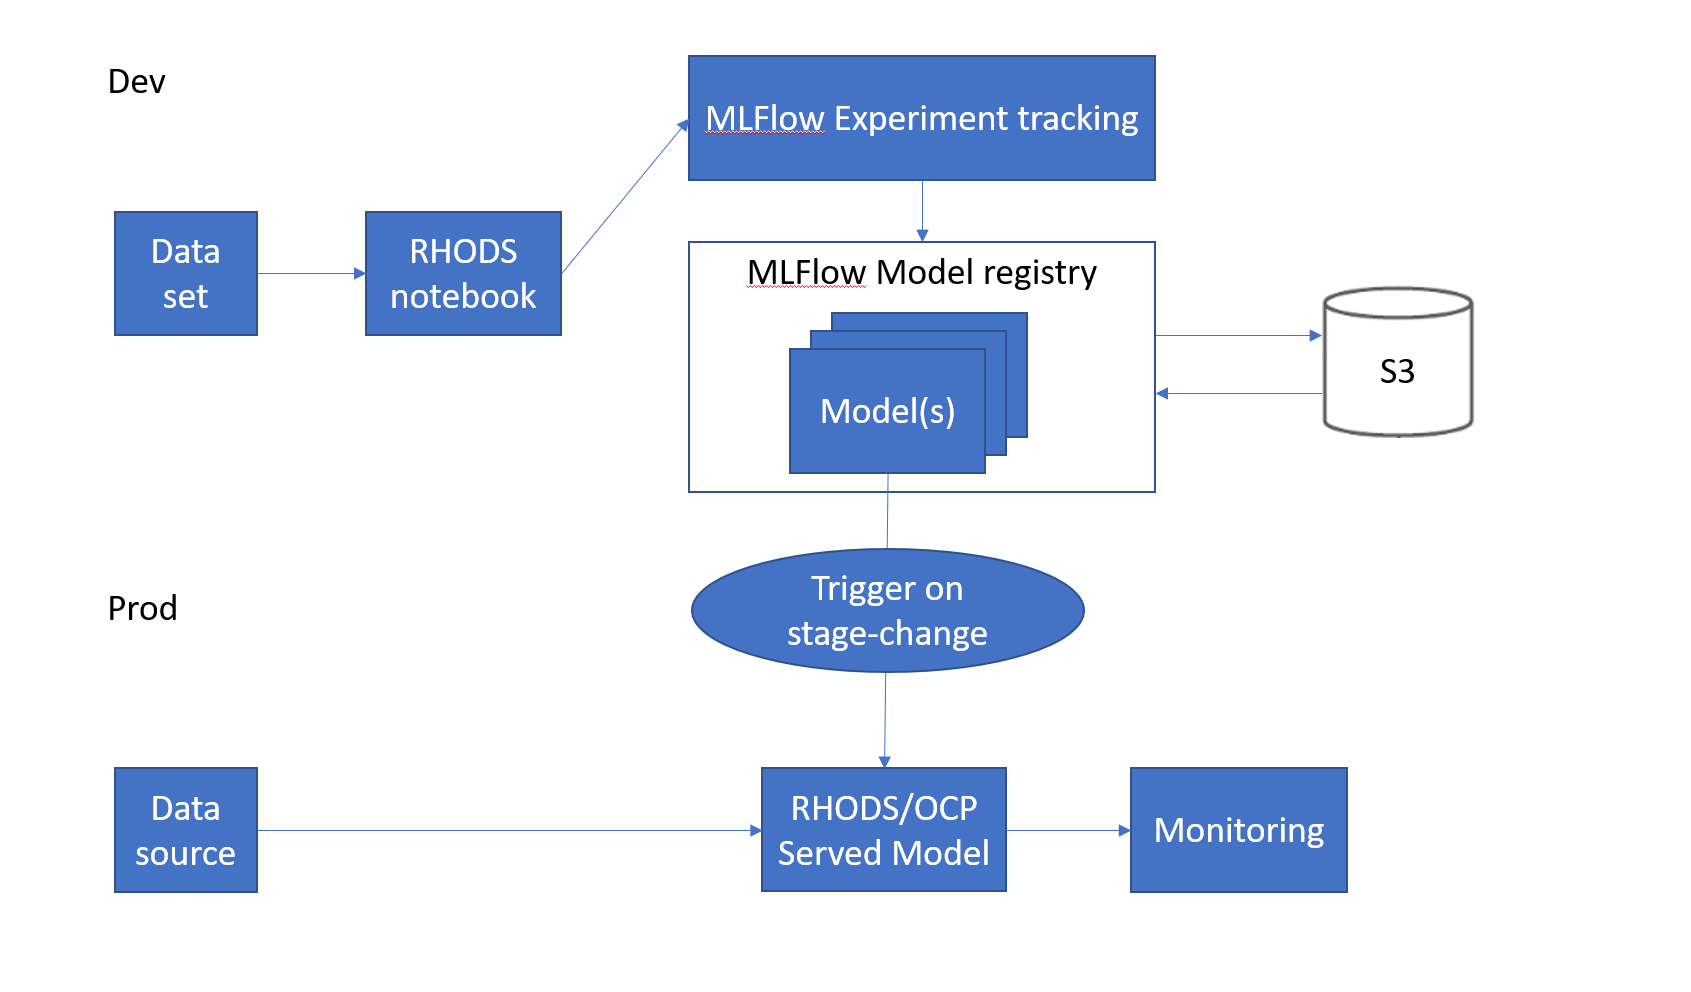
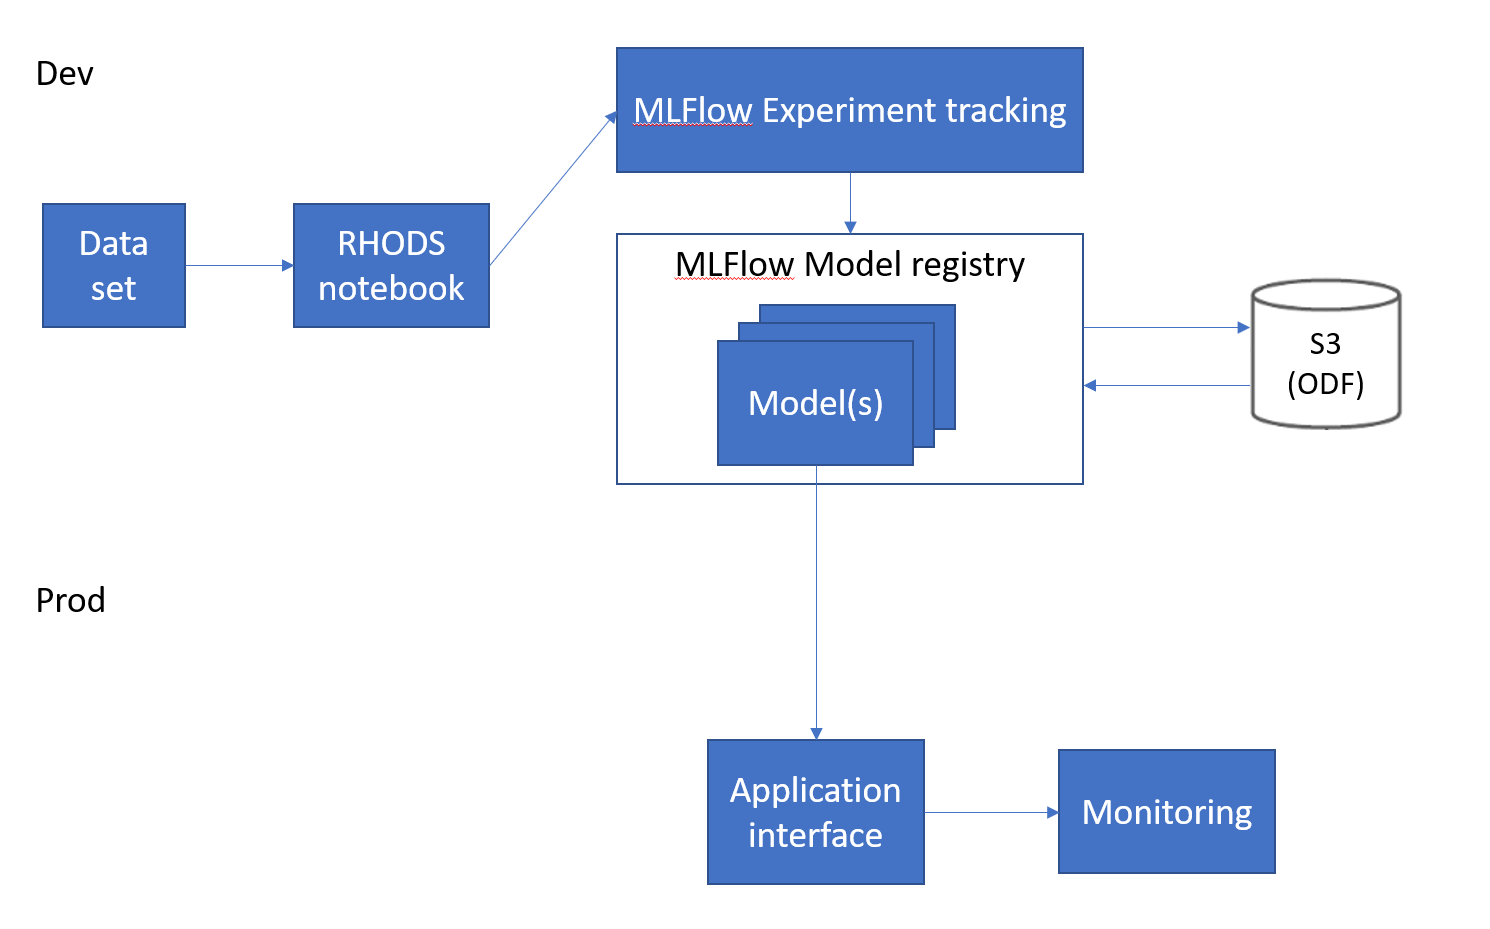
Updated README

diff --git a/README.md b/README.md
@@ -1,43 +1,133 @@
-# Credit Fraud Detection Demo using MLFlow and RHODS
-[Source](https://github.com/red-hat-data-services/credit-fraud-detection-demo)
+# Credit Card Fraud Detection Demo using MLFlow and RHODS
+[GitHub Source](https://github.com/red-hat-data-services/credit-fraud-detection-demo)
 
-## Pre-requisites:
+# Pre-requisites:
 - Have [RHODS](/getting_started_rhods) running in a cluster
 - Have [MLFlow](/tools_and_applications_mlflow) running in a cluster
-- 
 
-## Architecture
-This demo uses RHODS and MLFlow to build and end-to-end MLOps platform where we can: 
+# Demo Description & Architecture
+The goal of this demo is to demonstrate how RHODS and MLFlow can be used together to build and end-to-end MLOps platform where we can: 
 
 - Build and train models in RHODS
-- Track and store those models in MLFlow
-- Automatically deploy models to production (using RHODS serving) when the MLFlow model stage changes
-- And observe how the model performs in production.
+- Track and store those models with MLFlow
+- Deploy a model application in OpenShift that predicts with a sepcific model from MLFlow
+- Observe how the model performs in production
 
 The architecture looks like this:
 ![Diagram](img/Diagram.PNG)
 
-For S3 we use ODF (OpenShift Data Foundation) according to the MLFlow guide, but it can be replaced with another storage.  
+For S3 we use ODF (OpenShift Data Foundation) according to the [MLFlow guide](/tools_and_applications_mlflow), but it can be replaced with another storage.  
 The monitoring component uses Prometheus and Grafana.
 
-## Demo
+The model we will build is a Credit Card Fraud Detection model, which predicts if a credit card usage is fraudulent or not depending on a few paramemters such as: distance from home and last transaction, purchase price compared to median, if it's from a retailer that already has been purchased from before, if the PIN number is used and if it's an online order or not.
+
+
+# Demo
+
+## 1.1: MLFlow Route through visual interface
 Start by finding your route to MLFlow. You will need it to send any data to MLFlow.
 
-- Go to the OCP Console as a Developer
+- Go to the OpenShift Console as a Developer
 - Select your mlflow project 
 - Press Topology 
 - Press the mlflow-server circle 
+    - While you are at it, you can also press the little "Open URL" button in the top right corner of the circle to open up the MLFlow UI in a new tab - we will need it later.
 - Go to the Resources tab 
 - Press mlflow-server under Services 
-- Look at the Hostname and mlflow-server Port.
+- Look at the Hostname and mlflow-server Port.  
+NOTE: This route and port only works internally in the cluster.
 ![Find mlflow-server-service](img/mlflow-server-service.png)
 ![Find hostname and port](img/hostname-and-port.png)
 
-Then we will create a new Jupyter from RHODS, this is where we will build and train our model.
-![Launch Jupyter](img/Launch_Jupyter.png)
+## 1.2: MLFlow Route through oc
+Alternatively, you can use the OC command to get the route through: `oc get route mlflow | grep mlflow`
 
-Make sure to add the environment variable `MLFLOW_ROUTE=http://<route-to-mlflow>`. In this case it will be `MLFLOW_ROUTE=http://mlflow-server.mlflow.svc.cluster.local:8080`.  
-![Set environment variable](img/Set_env.png)
+## 2: Create a RHODS workbench
+Open up RHODS and create a new Data Science project (see image), this is where we will build and train our model. This will also create a namespace in OpenShift which is where we will be running our appliaction after the model is done.  
+I'm calling my project 'Credit Fraud', feel free to call yours something different but be aware that some things further down in the demo may change.
+![Create Data Science Project](img/Create_data_science_project.png)
 
-When inside Jupyter, pull down this repo from GitHub: [https://github.com/red-hat-data-services/credit-fraud-detection-demo](https://github.com/red-hat-data-services/credit-fraud-detection-demo)  
-It will contain everything you need to train and later run your model.
+After the project has been created, create a workbench where we can run Jupyter.  
+There are a few important settings here that we need to set:
+
+- **Name:** I simply call it "Credit Fraud Model", but feel free to call it something else.
+- **Notebook Image:** Standard Data Science
+- **Deployment Size:** Small
+- **Environment Variable:** Add a new one that's a Config Map -> Key/value and enter `MLFLOW_ROUTE` as the key and `http://<route-to-mlflow>:<port>` as the value.  
+This is the same route and port that we found in [step one](#11-mlflow-route-through-visual-interface), in my case it is `http://mlflow-server.mlflow.svc.cluster.local:8080`.
+- **Cluster Storage:** Create new persistent storage - I call it "Credit Fraud Storage" and set size to 20GB.
+
+Press Create Workbench and wait for it to start (Status should say "Running" and you should be able to press the Open link).
+![Workbench Settings](img/Workbench_Settings.png)
+![Workbench](img/Workbench.png)
+
+Open the workbench and log in if needed.
+
+## 3: Train the model
+When inside the workbench (Jupyter), pull down this repo from GitHub: [https://github.com/red-hat-data-services/credit-fraud-detection-demo](https://github.com/red-hat-data-services/credit-fraud-detection-demo).   
+It contains:
+
+- A notebook (model.ipynb) inside the `model` folder with a Deep Neural Network model we will train.
+- Data for that model.
+- An application (model_application.py) inside the `application` folder which will fetch the trained model from MLFlow and run a prediction on it whenever it gets any user input.
+![Jupyter](img/Jupyter.png)
+
+Take a look inside the folders and scripts if you are interested.  
+Some things to note is how we set up tracking and logging with MLFlow in `model.ipynb` to make sure that the experiment and the model is captured. You can also read about that in the [MLFlow guide](/tools_and_applications_mlflow#adding-mlflow-to-training-code).
+
+When you are done, open up the `model.ipynb` notebook and run all the cells. If the everything is set up correctly it will train the model and push both the experiment and the model to MLFlow.  
+The experiment is a record with metrics of how the run went, while the model is the actual tensorflow model which we later will use for inference.  
+You may see some warnings in the last cell related to MLFlow, as long as you see a final progressbar which pushes the model to MLFlow you are fine:
+![Trained model](img/Trained_model.png)
+
+## 4: View the model in MLFlow
+Let's take a look at how it looks inside MLFlow now that we have trained the model.  
+If you opened the MLFlow UI in a new tab in step 1.1, then just swap over to that tab, otherwise follow these steps:
+
+- Go to the OpenShift Console
+- Make sure you are in Developer view in the left menu
+- Go to Topology in the left menu
+- At the top left, change your project to MLFlow (or whatever you called it when installing the MLFlow operator in pre-requisites)
+- Press the "Open URL" icon in the top right of the MLFlow circle in the topology map
+
+![Open MLFlow UI](img/Open_MLFlow_UI.png)
+
+When inside the MLFlow interface you should see your new experiment in the left menu. Click that to see all the runs, should be a single run from the model we just trained.  
+You can now click on the row in the Created column to get more information about the experiment and how to run the model.
+
+![MLFlow view](img/MLFlow_view.png)
+
+## 5: Deploy the model
+To deploy the model, go to the OpenShift Console and make sure you are in **Developer** view and have selected the **credit-fraud** project.  
+Then press "+Add" in the left menu and select Import from Git.  
+![Import from Git](img/Import_from_Git.png)
+In the "Git Repo URL" enter: [https://github.com/red-hat-data-services/credit-fraud-detection-demo](https://github.com/red-hat-data-services/credit-fraud-detection-demo) (this is the same repository we pulled into RHODS earlier).  
+Then press "Show advanced Git options" and set "Context dir" to "/application".  
+Press Create to start deploying the application.
+![Import from Git Settings](img/Import_from_Git_settings.png)
+You should now see two objects in your topology map, one for the Workbench we created earlier and one for the application we just added.  
+When the circle of your deployment turns dark blue it means that it has finished deploying.  
+If you want more details on how the deployment is going, you can press the circle and look at Resources in the right menu that opens up. There you can see how the build is going and what's happening to the pod. The application will be ready when the build is complete and the pod is "Running".  
+When the application has been deployed you can press the "Open URL" button to open up the interface in a new tab. 
+![Application deployed](img/Application_deployed.png)
+Congratulations, you now have an application running your AI model!  
+If you looked inside the application code earlier, you also know that we specifically pull version 1 of the model called "DNN Fraud Detection" from MLFlow. This makes sense since we only ran the model once, but is easy to change if any other version or model should go into production.  
+We are also utilizing a program called "Gradio" to create the interface, it's a super lightweight way to get a nice looking interface running.
+
+Try entering a few values and see if it predicts it as a credit fraud or not. You can select one of the examples at the bottom of the application page.
+![Gradio](img/Gradio.PNG)
+
+
+## 6: Set up monitoring with Prometheus
+Now that we have an application and model running, we want to monitor what data goes through the model so we can alert on any detected frauds and see if the model starts drifting (the average inputs change) over time.  
+We will use Prometheus for gathering the data.
+
+To set up Prometheus, start by going to the OpenShift Console as an Administrator and go to OperatorHub.
+Find the Prometheus Operator and make sure to install it in the credit-fraud namespace - this is so we have everything application related in the same namespace.
+![Prometheus Operator](img/Prometheus_Operator.png)
+
+The deployed model was already built to send data to Prometheus so no changes needed there.  
+Simply go to the model and run some data through it to see what happens in Prometheus.
+
+
+## 7: Set up alerting with Graphana
